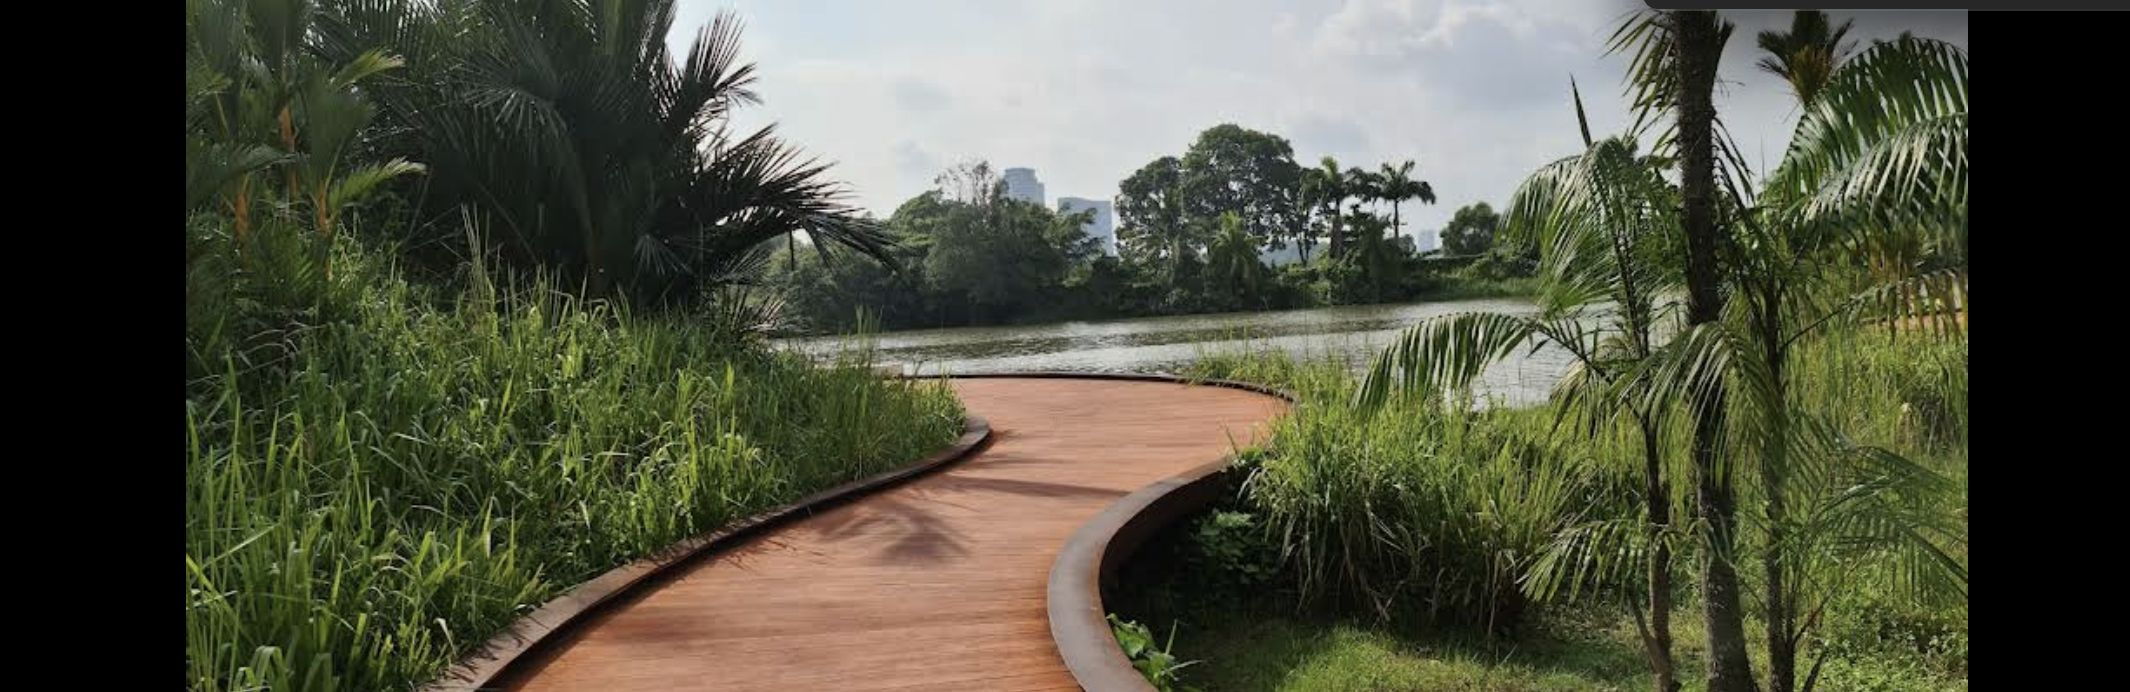
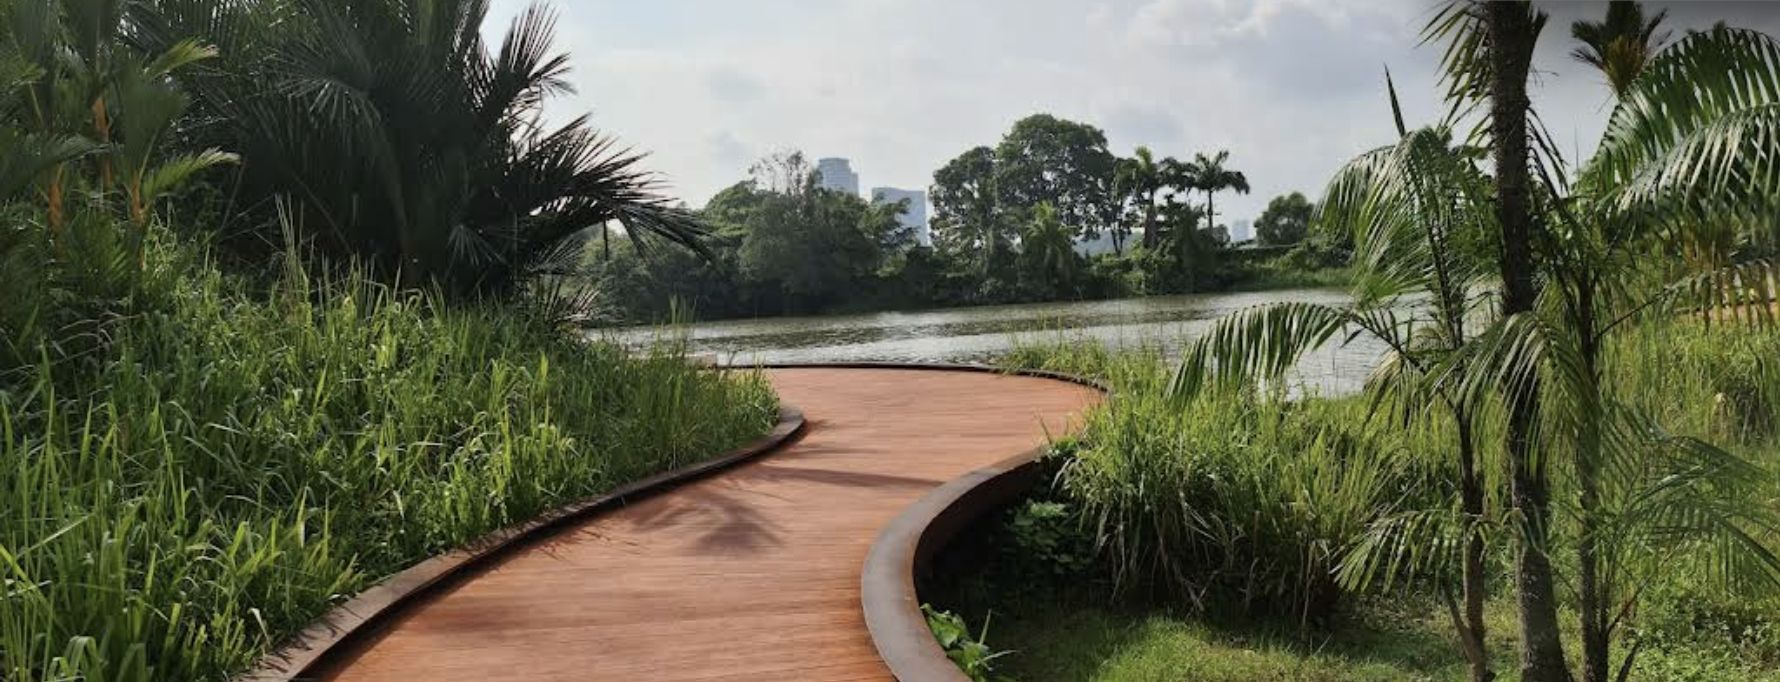
img sources

diff --git a/DCITP_FT_1A_11_FED_CA2_GRP3/pages/mainpages/destination6.html b/DCITP_FT_1A_11_FED_CA2_GRP3/pages/mainpages/destination6.html
@@ -72,6 +72,7 @@
 
                         <div class="col-lg-5 text-center">
                             <img class="img-fluid rounded content-images" src="../../assets/img/ST_IMG/SentosaAbt.jpg" alt="">
+                             <!-- Image Source: Gemini -->
                         </div>
                     </div>
                     
@@ -118,6 +119,7 @@
 
                         <div class="col-lg-5 text-center">
                             <img class="img-fluid rounded content-images" src="../../assets/img/ST_IMG/SentosaHotel.jpg" alt="">
+                             <!-- Image Source: Gemini -->
                         </div>
                     </div>
 
@@ -136,6 +138,7 @@
 
                         <div class="col-lg-5 text-center">
                             <img class="img-fluid rounded content-images" src="../../assets/img/ST_IMG/SentosaSilosoBeach.jpg" alt="">
+                             <!-- Image Source: Gemini -->
                         </div>
                     </div>
 
@@ -156,6 +159,7 @@
 
                         <div class="col-lg-5 text-center">
                             <img class="img-fluid rounded content-images" src="../../assets/img/ST_IMG/SentosaNestopia.jpg" alt="">
+                             <!-- Image Source: Gemini -->
                         </div>
                     </div>
 
@@ -175,6 +179,7 @@
 
                         <div class="col-lg-5 text-center">
                             <img class="img-fluid rounded content-images" src="../../assets/img/ST_IMG/SentosaCove.jpg" alt="">
+                             <!-- Image Source: Gemini -->
                         </div>
                     </div>
 
@@ -217,6 +222,7 @@
 
                         <div class="col-lg-5 text-center">
                             <img class="img-fluid rounded content-images" src="../../assets/img/ST_IMG/SentosaSeahFood.jpg" alt="">
+                             <!-- Image Source: Gemini -->
                         </div>
                     </div>
 
@@ -240,6 +246,7 @@
 
                         <div class="col-lg-5 text-center">
                             <img class="img-fluid rounded content-images" src="../../assets/img/ST_IMG/SentosaNativeKitchen.jpg" alt="">
+                             <!-- Image Source: Gemini -->
                         </div>
                     </div>
 
@@ -263,6 +270,7 @@
 
                         <div class="col-lg-5 text-center">
                             <img class="img-fluid rounded content-images" src="../../assets/img/ST_IMG/SentosaOCEAN.jpg" alt="">
+                             <!-- Image Source: GEmini -->
                         </div>
                     </div>
                 </article>
@@ -293,6 +301,7 @@
 
                         <div class="col-lg-5 text-center">
                             <img class="img-fluid rounded content-images" src="../../assets/img/ST_IMG/SentosaOceanarium.jpg" alt="">
+                             <!-- Image Source: Gemini -->
                         </div>
                     </div>
 
@@ -317,6 +326,7 @@
 
                         <div class="col-lg-5 text-center">
                             <img class="img-fluid rounded content-images" src="../../assets/img/ST_IMG/SentosaUSS.jpg" alt="">
+                             <!-- Image Source: Gemini -->
                         </div>
                     </div>
 
@@ -340,6 +350,7 @@
 
                         <div class="col-lg-5 text-center">
                             <img class="img-fluid rounded content-images" src="../../assets/img/ST_IMG/SentosaSkylineLuge.jpg" alt="">
+                             <!-- Image Source: GEmini -->
                         </div>
                     </div>
                 </article>
@@ -370,6 +381,7 @@
 
                         <div class="col-lg-5 text-center">
                             <img class="img-fluid rounded content-images" src="../../assets/img/ST_IMG/SentosaHarbourfrontMRT.jpg" alt="">
+                             <!-- Image Source: Gemini -->
                         </div>
                     </div>
                     <h4>Recommended MRT Station</h4>
@@ -408,19 +420,19 @@
                 <!-- Images -->
                 <div class="carousel-inner">
                     <div class="carousel-item active">
-                        <img src="../../assets/img/placeholder.jpg" class="d-block w-100" alt="">
+                        <img src="../../assets/img/ST_IMG/SentosaSilosoBeach.jpg" class="d-block w-100" alt="">
                     </div>
 
                     <div class="carousel-item">
-                        <img src="../../assets/img/placeholder.jpg" class="d-block w-100" alt="">
+                        <img src="../../assets/img/ST_IMG/SentosaSkylineLuge.jpg" class="d-block w-100" alt="">
                     </div>
 
                     <div class="carousel-item">
-                        <img src="../../assets/img/placeholder.jpg" class="d-block w-100" alt="">
+                        <img src="../../assets/img/ST_IMG/SentosaOCEAN.jpg" class="d-block w-100" alt="">
                     </div>
 
                     <div class="carousel-item">
-                        <img src="../../assets/img/placeholder.jpg" class="d-block w-100" alt="">
+                        <img src="../../assets/img/ST_IMG/SentosaHotel.jpg" class="d-block w-100" alt="">
                     </div>
                 </div>
 

diff --git a/DCITP_FT_1A_11_FED_CA2_GRP3/pages/mainpages/destination5.html b/DCITP_FT_1A_11_FED_CA2_GRP3/pages/mainpages/destination5.html
@@ -71,6 +71,7 @@
 
                         <div class="col-lg-5 text-center">
                             <img class="img-fluid rounded content-images" src="../../assets/img/CG_IMG/ChineseGardenAbt.jpg" alt="">
+                             <!-- Image Source: Gemini -->
                         </div>
                     </div>
                     
@@ -112,6 +113,7 @@
 
                         <div class="col-lg-5 text-center">
                             <img class="img-fluid rounded content-images" src="../../assets/img/CG_IMG/ChineseGardenJurongHawkerCentre.jpg" alt="">
+                             <!-- Image Source: Google maps -->
                         </div>
                     </div>
 
@@ -136,6 +138,7 @@
 
                         <div class="col-lg-5 text-center">
                             <img class="img-fluid rounded content-images" src="../../assets/img/CG_IMG/ChineseGardenEden.jpg" alt="">
+                             <!-- Image Source: Gemini -->
                         </div>
                     </div>
 
@@ -160,6 +163,7 @@
 
                         <div class="col-lg-5 text-center">
                             <img class="img-fluid rounded content-images" src="../../assets/img/CG_IMG/ChineseGardenCanopy.jpg" alt="">
+                             <!-- Image Source: Gemini -->
                         </div>
                     </div>
                 </article>
@@ -191,6 +195,7 @@
 
                         <div class="col-lg-5 text-center">
                             <img class="img-fluid rounded content-images" src="../../assets/img/CG_IMG/ChineseGardenBamboo.jpg" alt="">
+                             <!-- Image Source: Gemini -->
                         </div>
                     </div>
 
@@ -215,6 +220,7 @@
 
                         <div class="col-lg-5 text-center">
                             <img class="img-fluid rounded content-images" src="../../assets/img/CG_IMG/ChineseGardenJEM.jpg" alt="">
+                             <!-- Image Source: Google Maps -->
                         </div>
                     </div>
 
@@ -239,6 +245,7 @@
 
                         <div class="col-lg-5 text-center">
                             <img class="img-fluid rounded content-images" src="../../assets/img/CG_IMG/ChineseGarrdenRasua.jpg" alt="">
+                             <!-- Image Source: Gemini-->
                         </div>
                     </div>
                 </article>
@@ -268,6 +275,7 @@
 
                         <div class="col-lg-5 text-center">
                             <img class="img-fluid rounded content-images" src="../../assets/img/CG_IMG/ChineseGardenMRT.jpg" alt="">
+                             <!-- Image Source: Google Maps -->
                         </div>
                     </div>
                     <h4>Recommended MRT Station</h4>
@@ -299,19 +307,19 @@
                 <!-- Images -->
                 <div class="carousel-inner">
                     <div class="carousel-item active">
-                        <img src="../../assets/img/placeholder.jpg" class="d-block w-100" alt="">
+                        <img src="../../assets/img/CG_IMG/ChineseGardenCanopy.jpg" class="d-block w-100" alt="">
                     </div>
 
                     <div class="carousel-item">
-                        <img src="../../assets/img/placeholder.jpg" class="d-block w-100" alt="">
+                        <img src="../../assets/img/CG_IMG/ChineseGardenEden.jpg" class="d-block w-100" alt="">
                     </div>
 
                     <div class="carousel-item">
-                        <img src="../../assets/img/placeholder.jpg" class="d-block w-100" alt="">
+                        <img src="../../assets/img/CG_IMG/ChineseGardenJEM.jpg" class="d-block w-100" alt="">
                     </div>
 
                     <div class="carousel-item">
-                        <img src="../../assets/img/placeholder.jpg" class="d-block w-100" alt="">
+                        <img src="../../assets/img/CG_IMG/ChineseGardenBamboo.jpg" class="d-block w-100" alt="">
                     </div>
                 </div>
 
